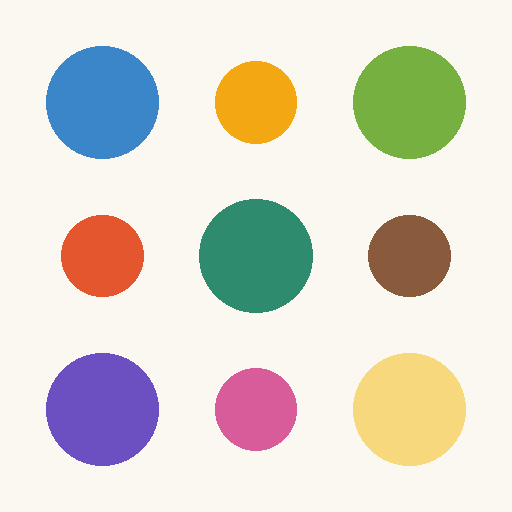
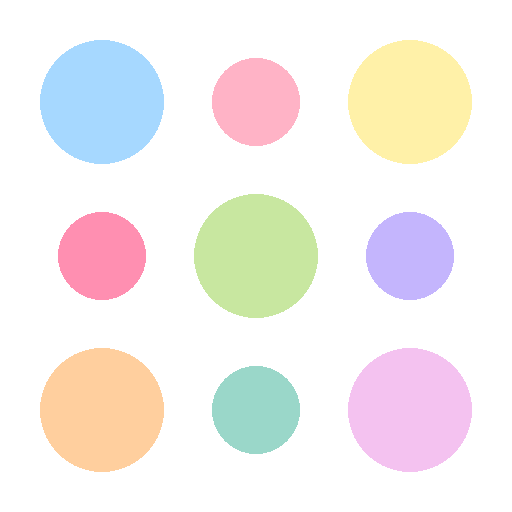
White pastel look, three cute scenes
Claude-Session: https://claude.ai/code/session_01J7PUWfVTWtjUY25TA2ENF7

diff --git a/index.html b/index.html
@@ -1,34 +1,39 @@
 <!doctype html><html lang="en"><head><meta charset="utf-8">
 <meta name="viewport" content="width=device-width,initial-scale=1,viewport-fit=cover,user-scalable=no">
 <meta name="apple-mobile-web-app-capable" content="yes">
-<meta name="apple-mobile-web-app-status-bar-style" content="black-translucent">
+<meta name="apple-mobile-web-app-status-bar-style" content="default">
 <meta name="apple-mobile-web-app-title" content="Dot Letters">
+<meta name="theme-color" content="#ffffff">
 <link rel="apple-touch-icon" href="icon-180.png">
 <link rel="manifest" href="manifest.json">
 <title>Dot Letters</title>
-<link rel="stylesheet" href="https://fonts.googleapis.com/css2?family=Fraunces:wght@600&family=Nunito:wght@500;700&display=swap">
+<link rel="stylesheet" href="https://fonts.googleapis.com/css2?family=Baloo+2:wght@600;700&family=Nunito:wght@500;700&display=swap">
 <style>
 :root{padding-top:env(safe-area-inset-top,0px);padding-bottom:env(safe-area-inset-bottom,0px)}
-/* Layout: paper sheet in the middle, marker tray (the key) docked below it like the detachable tray in the pad. */
+/* Layout: white sheet in the middle, pastel marker tray docked below, scene tabs above. */
 :root{
-  --paper:#fbf8f1; --ink:#2b2a27; --muted:#7b7568; --tray:#efe9dd; --line:#d9d2c3; --accent:#c8552f;
-  --display:"Fraunces",Georgia,serif; --body:"Nunito",system-ui,sans-serif;
+  --paper:#ffffff; --ink:#4a4458; --muted:#a39db0; --tray:#fff6fa; --line:#f0e4ee; --accent:#ff8fb1; --accent2:#9ad7c9;
+  --display:"Baloo 2","Nunito",system-ui,sans-serif; --body:"Nunito",system-ui,sans-serif;
 }
-@media (prefers-color-scheme: dark){ :root:not([data-theme="light"]){ --paper:#1d1c1a; --ink:#ebe6da; --muted:#9a9388; --tray:#2a2826; --line:#3d3a35; --accent:#e4744e; color-scheme:dark } }
-:root[data-theme="dark"]{ --paper:#1d1c1a; --ink:#ebe6da; --muted:#9a9388; --tray:#2a2826; --line:#3d3a35; --accent:#e4744e; color-scheme:dark }
+@media (prefers-color-scheme: dark){ :root:not([data-theme="light"]){ --paper:#ffffff; --ink:#4a4458; --muted:#a39db0; --tray:#fff6fa; --line:#f0e4ee; --accent:#ff8fb1; --accent2:#9ad7c9 } }
+:root[data-theme="dark"]{ --paper:#ffffff; --ink:#4a4458; --muted:#a39db0; --tray:#fff6fa; --line:#f0e4ee; --accent:#ff8fb1; --accent2:#9ad7c9 }
 html,body{height:100%}
-body{margin:0;background:var(--tray);color:var(--ink);font-family:var(--body);display:flex;flex-direction:column;
+body{margin:0;background:var(--paper);color:var(--ink);font-family:var(--body);display:flex;flex-direction:column;
   padding-left:max(16px,env(safe-area-inset-left,0px));padding-right:max(16px,env(safe-area-inset-right,0px));padding-block:10px;box-sizing:border-box;gap:10px;overflow:hidden;touch-action:none}
-header{display:flex;align-items:baseline;justify-content:space-between;gap:12px;flex-wrap:wrap}
-h1{font-family:var(--display);font-weight:600;font-size:22px;margin:0;letter-spacing:-.01em}
+header{display:flex;align-items:center;justify-content:space-between;gap:12px;flex-wrap:wrap}
+h1{font-family:var(--display);font-weight:700;font-size:24px;margin:0;letter-spacing:-.01em;color:var(--accent)}
 .sub{font-size:12px;color:var(--muted)}
+.scenes{display:flex;gap:6px;flex-wrap:wrap}
+.scenes button{font:600 13px var(--display);color:var(--ink);background:var(--tray);border:2px solid var(--line);border-radius:999px;padding:5px 12px;cursor:pointer}
+.scenes button.on{border-color:var(--accent);background:#ffe3ec}
+.scenes button:focus-visible{outline:2px solid var(--accent);outline-offset:2px}
 #stage{flex:1;min-height:0;display:flex;align-items:center;justify-content:center}
-canvas{background:var(--paper);border-radius:6px;box-shadow:0 1px 0 var(--line),0 10px 30px rgba(0,0,0,.12);max-width:100%;max-height:100%;touch-action:none;cursor:crosshair}
-.tray{background:var(--paper);border:1px solid var(--line);border-radius:12px;padding:10px 12px;display:flex;flex-direction:column;gap:8px}
+canvas{background:var(--paper);border-radius:16px;border:2px solid var(--line);max-width:100%;max-height:100%;touch-action:none;cursor:crosshair}
+.tray{background:var(--tray);border:2px solid var(--line);border-radius:18px;padding:10px 12px;display:flex;flex-direction:column;gap:8px}
 .key{display:flex;gap:8px;flex-wrap:wrap}
-.k{display:flex;align-items:center;gap:6px;padding:6px 10px 6px 6px;border-radius:999px;border:2px solid transparent;background:var(--tray);cursor:pointer;font:700 15px var(--body);color:var(--ink);position:relative}
+.k{display:flex;align-items:center;gap:6px;padding:6px 10px 6px 6px;border-radius:999px;border:2px solid transparent;background:var(--paper);cursor:pointer;font:700 15px var(--body);color:var(--ink);box-shadow:0 1px 0 var(--line)}
 .k.on{border-color:var(--ink)}
-.k .sw{width:22px;height:22px;border-radius:50%;box-shadow:inset 0 0 0 1px rgba(0,0,0,.15)}
+.k .sw{width:22px;height:22px;border-radius:50%}
 .k .pct{font-size:11px;color:var(--muted);font-variant-numeric:tabular-nums;min-width:3ch;text-align:right}
 .k.done .pct{color:var(--accent)}
 .k:focus-visible{outline:2px solid var(--accent);outline-offset:2px}
@@ -36,7 +41,7 @@ canvas{background:var(--paper);border-radius:6px;box-shadow:0 1px 0 var(--line),
 .pal{display:flex;gap:5px;flex-wrap:wrap}
 .pal button{width:24px;height:24px;border-radius:50%;border:2px solid var(--paper);box-shadow:0 0 0 1px var(--line);cursor:pointer;padding:0}
 .pal button:focus-visible{outline:2px solid var(--accent)}
-button.txt{font:700 12px var(--body);color:var(--ink);background:none;border:1px solid var(--line);border-radius:999px;padding:5px 10px;cursor:pointer}
+button.txt{font:700 12px var(--body);color:var(--ink);background:var(--paper);border:2px solid var(--line);border-radius:999px;padding:5px 10px;cursor:pointer}
 button.txt:focus-visible{outline:2px solid var(--accent)}
 .spacer{flex:1}
 @media (prefers-reduced-motion: reduce){ *{animation:none!important;transition:none!important} }
@@ -44,6 +49,7 @@ button.txt:focus-visible{outline:2px solid var(--accent)}
 
 </head><body><header>
   <h1>Dot Letters</h1>
+  <div class="scenes" id="scenes"></div>
   <span class="sub" id="hint">Pick a letter in the tray, then tap its letters on the page.</span>
 </header>
 <div id="stage"><canvas id="c"></canvas></div>
@@ -60,35 +66,66 @@ button.txt:focus-visible{outline:2px solid var(--accent)}
 </div>
 
 <script>
-// ---------- Scene definition: regions, each tagged with a letter ----------
+// ---------- Palette: soft pastels ----------
 const W=900,H=640;
-const PALETTE=['#e4572e','#f3a712','#f7d87c','#76b041','#2e8b6e','#3a86c9','#6c4fc1','#d85b9a','#8a5a3c','#2b2a27'];
+const PALETTE=['#ff8fb1','#ffb3c6','#ffcf9e','#fff1a8','#c8e7a0','#9ad7c9','#a6d8ff','#c4b5fd','#f4c2f0','#c9a98b','#f7a8a8','#8fd3f4'];
 const LETTERS='ABCDEF'.split('');
-const DEFAULT=['#3a86c9','#f3a712','#76b041','#2e8b6e','#8a5a3c','#e4572e'];
 
-function buildRegions(){
-  const r=[];
-  const sky=new Path2D(); sky.rect(0,0,W,H); r.push({l:'A',p:sky});               // sky (drawn first = lowest)
-  const sun=new Path2D(); sun.arc(690,140,70,0,Math.PI*2); r.push({l:'B',p:sun});
-  const hills=new Path2D(); hills.moveTo(0,420); hills.bezierCurveTo(200,300,380,340,520,400); hills.bezierCurveTo(680,460,780,380,900,420); hills.lineTo(900,H); hills.lineTo(0,H); r.push({l:'C',p:hills});
-  const ground=new Path2D(); ground.moveTo(0,520); ground.bezierCurveTo(300,490,600,540,900,500); ground.lineTo(900,H); ground.lineTo(0,H); r.push({l:'F',p:ground});
-  const trunk=new Path2D(); trunk.moveTo(255,560); trunk.lineTo(275,330); trunk.lineTo(305,330); trunk.lineTo(325,560); r.push({l:'E',p:trunk});
-  const leaves=new Path2D(); leaves.arc(290,260,95,0,Math.PI*2); leaves.arc(215,310,60,0,Math.PI*2); leaves.arc(370,305,65,0,Math.PI*2); r.push({l:'D',p:leaves});
-  const cloud=new Path2D(); cloud.arc(500,120,38,0,Math.PI*2); cloud.arc(545,105,46,0,Math.PI*2); cloud.arc(595,125,34,0,Math.PI*2); cloud.rect(500,125,95,34); r.push({l:'A',p:cloud,cloud:true});
-  return r;
-}
-const REGIONS=buildRegions();
+// ---------- Scenes: regions tagged with letters, drawn lowest first ----------
+function circ(x,y,r){const p=new Path2D();p.arc(x,y,r,0,Math.PI*2);return p}
+function ell(x,y,rx,ry,rot=0){const p=new Path2D();p.ellipse(x,y,rx,ry,rot,0,Math.PI*2);return p}
+function poly(pts){const p=new Path2D();p.moveTo(...pts[0]);pts.slice(1).forEach(q=>p.lineTo(...q));p.closePath();return p}
+function rrect(x,y,w,h,r){const p=new Path2D();p.roundRect(x,y,w,h,r);return p}
+function heart(x,y,s){const p=new Path2D();p.moveTo(x,y+s*0.9);p.bezierCurveTo(x-s*1.3,y-s*0.1,x-s*0.6,y-s*1.0,x,y-s*0.35);p.bezierCurveTo(x+s*0.6,y-s*1.0,x+s*1.3,y-s*0.1,x,y+s*0.9);return p}
+function star(x,y,R,r){const p=new Path2D();for(let i=0;i<10;i++){const a=-Math.PI/2+i*Math.PI/5,d=i%2?r:R;i?p.lineTo(x+Math.cos(a)*d,y+Math.sin(a)*d):p.moveTo(x+Math.cos(a)*d,y+Math.sin(a)*d)}p.closePath();return p}
+function union(...ps){const p=new Path2D();ps.forEach(q=>p.addPath(q));return p}
 
-// Region lookup: topmost region containing the point.
+const SCENES={
+  'Kitty':{colors:['#a6d8ff','#ffcf9e','#ffb3c6','#fff1a8','#c4b5fd','#ff8fb1'],build(){const r=[];
+    r.push({l:'A',p:rrect(0,0,W,H,0)});                                   // sky
+    r.push({l:'E',p:union(circ(120,120,34),circ(160,105,44),circ(205,122,32),rrect(120,122,85,32,0))});
+    r.push({l:'E',p:union(circ(700,90,30),circ(740,78,38),circ(780,94,28),rrect(700,94,80,28,0))});
+    r.push({l:'D',p:rrect(0,470,W,H-470,0)});                              // grass
+    r.push({l:'B',p:ell(450,420,170,110)});                                // body
+    r.push({l:'B',p:union(ell(640,380,30,70,-0.6),circ(650,320,30))});     // tail
+    r.push({l:'B',p:union(poly([[330,215],[345,120],[405,200]]),poly([[570,215],[555,120],[495,200]]))}); // ears
+    r.push({l:'C',p:union(poly([[345,205],[352,150],[392,200]]),poly([[555,205],[548,150],[508,200]]))}); // inner ears
+    r.push({l:'B',p:ell(450,250,130,105)});                                // head
+    r.push({l:'F',p:union(circ(395,240,22),circ(505,240,22))});            // eyes
+    r.push({l:'C',p:heart(450,300,16)});                                   // nose
+    r.push({l:'C',p:union(circ(350,300,22),circ(550,300,22))});            // cheeks
+    r.push({l:'C',p:union(heart(150,330,40),heart(780,250,34),heart(820,520,36),heart(90,560,30))});
+    return r}},
+  'Cupcake':{colors:['#fff1a8','#ffb3c6','#c9a98b','#ff8fb1','#a6d8ff','#f4c2f0'],build(){const r=[];
+    r.push({l:'A',p:rrect(0,0,W,H,0)});
+    r.push({l:'C',p:poly([[300,370],[600,370],[560,600],[340,600]])});     // wrapper
+    r.push({l:'A',p:union(poly([[340,380],[360,380],[350,595],[340,595]]),poly([[440,380],[460,380],[455,598],[445,598]]),poly([[540,380],[560,380],[550,595],[540,595]]))}); // pleats
+    r.push({l:'B',p:union(ell(450,370,170,55),circ(380,310,60),circ(520,310,60),circ(450,250,65),circ(410,215,45),circ(490,215,45),circ(450,180,40))}); // frosting
+    r.push({l:'D',p:circ(450,150,26)});                                    // cherry
+    r.push({l:'E',p:union(star(140,140,42,19),star(760,120,46,21),star(800,480,36,16),star(110,470,38,17),star(230,560,30,13),star(680,560,32,14))});
+    r.push({l:'F',p:union(circ(400,330,14),circ(470,300,14),circ(520,350,14),circ(430,245,13),circ(480,220,13),circ(360,360,13),circ(540,300,13))}); // sprinkles
+    return r}},
+  'Mushroom':{colors:['#c8e7a0','#ff8fb1','#fff1a8','#ffcf9e','#a6d8ff','#c4b5fd'],build(){const r=[];
+    r.push({l:'A',p:rrect(0,0,W,H,0)});
+    r.push({l:'A',p:union(ell(200,560,180,60),ell(700,570,200,60))});       // soft hills (same letter, outline only)
+    r.push({l:'F',p:union(circ(120,110,32),circ(165,95,40),circ(210,112,30),rrect(120,112,90,30,0))});
+    r.push({l:'D',p:rrect(380,330,140,250,30)});                           // stem
+    r.push({l:'E',p:union(rrect(410,420,36,50,12),circ(428,420,18))});     // door
+    r.push({l:'B',p:union(ell(450,310,230,120),rrect(220,310,460,40,0))}); // cap
+    r.push({l:'C',p:union(circ(330,270,30),circ(450,230,36),circ(570,280,28),circ(390,330,18),circ(520,335,20),circ(260,320,16),circ(640,322,16))}); // spots
+    r.push({l:'C',p:union(circ(140,470,22),circ(118,440,14),circ(162,440,14),circ(130,452,10))}); // little flower
+    r.push({l:'C',p:union(circ(790,500,22),circ(768,470,14),circ(812,470,14),circ(780,482,10))});
+    r.push({l:'D',p:union(rrect(136,490,8,70,4),rrect(786,520,8,60,4))});
+    return r}},
+};
+
+// ---------- Build the letter field for a scene ----------
 const probe=document.createElement('canvas').getContext('2d');
+let REGIONS=[],LET=[],sceneName='Kitty',colors=[];
 function regionAt(x,y){ for(let i=REGIONS.length-1;i>=0;i--){ if(probe.isPointInPath(REGIONS[i].p,x,y)) return i; } return 0; }
-
-// Scatter letters on a jittered grid. A letter is "large" when the region is the same
-// in all four directions at distance R, else "small" (near an edge = detail).
-let LET=[];
 function seed(s){ return ()=>{ s=(s*16807)%2147483647; return (s-1)/2147483646; } }
 function scatter(){
-  const rnd=seed(42), step=27, R=15; LET=[];
+  const rnd=seed(42), step=24, R=13; LET=[];
   for(let y=step*0.8;y<H-8;y+=step) for(let x=step*0.8+(Math.round(y/step)%2)*step/2;x<W-8;x+=step){
     const px=x+(rnd()-.5)*10, py=y+(rnd()-.5)*10;
     const ri=regionAt(px,py);
@@ -96,74 +133,60 @@ function scatter(){
     LET.push({x:px,y:py,l:REGIONS[ri].l,big,done:false});
   }
 }
-scatter();
+function loadScene(name){
+  sceneName=name; REGIONS=SCENES[name].build(); colors=SCENES[name].colors.slice(); scatter();
+  try{ const s=JSON.parse(localStorage.getItem('dotletters:'+name)||'null'); if(s&&s.done&&s.done.length===LET.length){ colors=s.colors; s.done.forEach((d,i)=>{LET[i].done=!!d; LET[i].k=d||1;}); } }catch(e){}
+  cur='A'; document.getElementById('curL').textContent='A'; renderScenes(); renderKey(); renderPal(); draw(0);
+}
+function save(){ try{ localStorage.setItem('dotletters:'+sceneName,JSON.stringify({colors,done:LET.map(l=>l.done?+(l.k||1).toFixed(2):0)})); }catch(e){} }
 
 // ---------- State ----------
-let colors=DEFAULT.slice(), cur='A', anyMode=false;
-try{ const s=JSON.parse(localStorage.getItem('dotletters')||'null'); if(s&&s.done&&s.done.length===LET.length){ colors=s.colors; s.done.forEach((d,i)=>{LET[i].done=!!d; LET[i].k=d||1;}); } }catch(e){}
-function save(){ try{ localStorage.setItem('dotletters',JSON.stringify({colors,done:LET.map(l=>l.done?+(l.k||1).toFixed(2):0)})); }catch(e){} }
+let cur='A', anyMode=false;
 
 // ---------- Drawing ----------
 const cv=document.getElementById('c'), ctx=cv.getContext('2d');
 const dpr=Math.min(2,window.devicePixelRatio||1);
 cv.width=W*dpr; cv.height=H*dpr; ctx.scale(dpr,dpr);
-const pops=[]; // dot pop animations
+const pops=[];
 function draw(t){
   ctx.clearRect(0,0,W,H);
-  const paper=getComputedStyle(document.documentElement).getPropertyValue('--paper').trim();
-  const ink=getComputedStyle(document.documentElement).getPropertyValue('--line').trim();
-  ctx.fillStyle=paper; ctx.fillRect(0,0,W,H);
-  // faint outlines of the scene, like the printed line art
-  ctx.strokeStyle=ink; ctx.lineWidth=1.2;
+  ctx.fillStyle='#ffffff'; ctx.fillRect(0,0,W,H);
+  ctx.strokeStyle='#e9dfe8'; ctx.lineWidth=1.4;
   REGIONS.slice(1).forEach(r=>ctx.stroke(r.p));
-  // letters
   ctx.textAlign='center'; ctx.textBaseline='middle';
-  for(const L of LET){
-    if(L.done) continue;
-    ctx.fillStyle=getComputedStyle(document.documentElement).getPropertyValue('--muted').trim();
-    ctx.font=(L.big?'700 15px':'700 9px')+' Nunito, sans-serif';
-    ctx.fillText(L.l,L.x,L.y);
-  }
-  // dots
-  for(const L of LET){
-    if(!L.done) continue;
-    const r=(L.big?13:7.5)*(L.k||1);
-    ctx.fillStyle=colors[LETTERS.indexOf(L.l)]; ctx.globalAlpha=.92;
-    ctx.beginPath(); ctx.arc(L.x,L.y,r,0,Math.PI*2); ctx.fill(); ctx.globalAlpha=1;
-  }
-  // pops (expanding ring)
+  ctx.fillStyle='#b9b2c4';
+  for(const L of LET){ if(L.done) continue; ctx.font=(L.big?'700 15px':'700 9px')+' Nunito, sans-serif'; ctx.fillText(L.l,L.x,L.y); }
+  for(const L of LET){ if(!L.done) continue; const r=(L.big?13:7.5)*(L.k||1);
+    ctx.fillStyle=colors[LETTERS.indexOf(L.l)]; ctx.globalAlpha=.95; ctx.beginPath(); ctx.arc(L.x,L.y,r,0,Math.PI*2); ctx.fill(); ctx.globalAlpha=1; }
   for(let i=pops.length-1;i>=0;i--){ const p=pops[i], k=(t-p.t)/260; if(k>=1){pops.splice(i,1);continue}
     ctx.strokeStyle=p.c; ctx.globalAlpha=1-k; ctx.lineWidth=2; ctx.beginPath(); ctx.arc(p.x,p.y,p.r+k*10,0,Math.PI*2); ctx.stroke(); ctx.globalAlpha=1; }
   if(pops.length) requestAnimationFrame(draw);
 }
-document.fonts&&document.fonts.ready.then(()=>draw(0)); draw(0);
 
-// ---------- Sound: a soft marker tap ----------
+// ---------- Sound ----------
 let AC=null;
 function tap(big){ try{ AC=AC||new (window.AudioContext||window.webkitAudioContext)(); const o=AC.createOscillator(), g=AC.createGain();
   o.type='sine'; o.frequency.value=big?220:330; g.gain.setValueAtTime(.0001,AC.currentTime); g.gain.exponentialRampToValueAtTime(.25,AC.currentTime+.01); g.gain.exponentialRampToValueAtTime(.0001,AC.currentTime+.09);
   o.connect(g).connect(AC.destination); o.start(); o.stop(AC.currentTime+.1);}catch(e){} }
 
-// ---------- Interaction ----------
+// ---------- Interaction (Pencil-aware) ----------
 function canvasPoint(e){ const b=cv.getBoundingClientRect(); return {x:(e.clientX-b.left)*W/b.width, y:(e.clientY-b.top)*H/b.height}; }
 let down=false;
 function hit(pt,pressure){
   let best=null,bd=1e9;
   for(const L of LET){ if(L.done) continue; const d=Math.hypot(L.x-pt.x,L.y-pt.y); const reach=L.big?16:11; if(d<reach&&d<bd){bd=d;best=L} }
   if(!best) return;
-  if(!anyMode && best.l!==cur) return;      // in flow mode, only the chosen letter accepts a dot
-  // Pencil pressure: light tap = tidy dot, firm press = ink spreads (0.85x .. 1.3x)
+  if(!anyMode && best.l!==cur) return;
   best.k = 0.85 + Math.min(1,Math.max(0,pressure))*0.45;
   best.done=true; pops.push({x:best.x,y:best.y,r:(best.big?13:7.5)*best.k,c:colors[LETTERS.indexOf(best.l)],t:performance.now()});
   if(navigator.vibrate) navigator.vibrate(8);
   tap(best.big); save(); renderKey(); requestAnimationFrame(draw);
 }
-// Palm rejection: once a pen has been seen, finger touches are ignored (unless "Pencil only" is off and no pen touched for 3 s).
 let penSeen=0, penOnly=false;
 function accept(e){
   if(e.pointerType==='pen'){ penSeen=performance.now(); return true; }
   if(e.pointerType==='touch'){ if(penOnly) return false; return performance.now()-penSeen>3000; }
-  return true; // mouse
+  return true;
 }
 function pressureOf(e){ return e.pointerType==='pen' ? (e.pressure||0.5) : 0.5; }
 cv.addEventListener('pointerdown',e=>{ if(!accept(e)) return; down=true; cv.setPointerCapture(e.pointerId); hit(canvasPoint(e),pressureOf(e)); });
@@ -172,18 +195,22 @@ cv.addEventListener('pointerup',()=>down=false); cv.addEventListener('pointercan
 document.getElementById('pen').onclick=function(){ penOnly=!penOnly; this.textContent='Pencil only: '+(penOnly?'on':'off'); };
 
 // ---------- Tray UI ----------
-const keyEl=document.getElementById('key'), palEl=document.getElementById('pal');
+const keyEl=document.getElementById('key'), palEl=document.getElementById('pal'), scEl=document.getElementById('scenes');
+function renderScenes(){
+  scEl.innerHTML='';
+  Object.keys(SCENES).forEach(n=>{ const b=document.createElement('button'); b.textContent=n; b.id='scene-'+n; b.className=n===sceneName?'on':''; b.onclick=()=>loadScene(n); scEl.appendChild(b); });
+}
 function renderKey(){
   keyEl.innerHTML='';
   LETTERS.forEach((l,i)=>{
-    const all=LET.filter(x=>x.l===l), n=all.filter(x=>x.done).length, pct=Math.round(100*n/all.length);
+    const all=LET.filter(x=>x.l===l), n=all.filter(x=>x.done).length, pct=all.length?Math.round(100*n/all.length):0;
     const b=document.createElement('button'); b.className='k'+(l===cur?' on':'')+(pct===100?' done':''); b.id='key-'+l;
     b.innerHTML=`<span class="sw" style="background:${colors[i]}"></span>${l}<span class="pct">${pct}%</span>`;
     b.onclick=()=>{cur=l; document.getElementById('curL').textContent=l; renderKey(); renderPal();};
     keyEl.appendChild(b);
   });
   const total=LET.filter(x=>x.done).length;
-  document.getElementById('hint').textContent= total===LET.length ? 'Page complete. Lovely.' : `${total} of ${LET.length} dots placed`;
+  document.getElementById('hint').textContent= total===LET.length ? 'Page complete. So cute!' : `${total} of ${LET.length} dots placed`;
 }
 function renderPal(){
   palEl.innerHTML='';
@@ -192,9 +219,9 @@ function renderPal(){
     b.onclick=()=>{ colors[LETTERS.indexOf(cur)]=c; save(); renderKey(); renderPal(); draw(0); }; palEl.appendChild(b); });
 }
 document.getElementById('auto').onclick=function(){ anyMode=!anyMode; this.textContent='Any letter mode: '+(anyMode?'on':'off'); };
-document.getElementById('reset').onclick=()=>{ LET.forEach(l=>l.done=false); save(); renderKey(); draw(0); };
-renderKey(); renderPal();
-matchMedia('(prefers-color-scheme: dark)').addEventListener('change',()=>draw(0));
+document.getElementById('reset').onclick=()=>{ LET.forEach(l=>{l.done=false;l.k=1}); save(); renderKey(); draw(0); };
+loadScene('Kitty');
+document.fonts&&document.fonts.ready.then(()=>draw(0));
 </script>
 
 <script>if("serviceWorker" in navigator)navigator.serviceWorker.register("sw.js");</script></body></html>

diff --git a/sw.js b/sw.js
@@ -1,4 +1,4 @@
-const C='dotletters-v1',F=['./','./index.html','./manifest.json','./icon-192.png','./icon-512.png','./icon-180.png'];
-self.addEventListener('install',e=>e.waitUntil(caches.open(C).then(c=>c.addAll(F))));
-self.addEventListener('activate',e=>e.waitUntil(caches.keys().then(k=>Promise.all(k.filter(x=>x!==C).map(x=>caches.delete(x))))));
-self.addEventListener('fetch',e=>e.respondWith(caches.match(e.request).then(r=>r||fetch(e.request))));
+const C='dotletters-v2',F=['./','./index.html','./manifest.json','./icon-192.png','./icon-512.png','./icon-180.png'];
+self.addEventListener('install',e=>{self.skipWaiting();e.waitUntil(caches.open(C).then(c=>c.addAll(F)))});
+self.addEventListener('activate',e=>e.waitUntil(caches.keys().then(k=>Promise.all(k.filter(x=>x!==C).map(x=>caches.delete(x)))).then(()=>self.clients.claim())));
+self.addEventListener('fetch',e=>e.respondWith(fetch(e.request).then(r=>{const c=r.clone();caches.open(C).then(x=>x.put(e.request,c));return r}).catch(()=>caches.match(e.request))));
